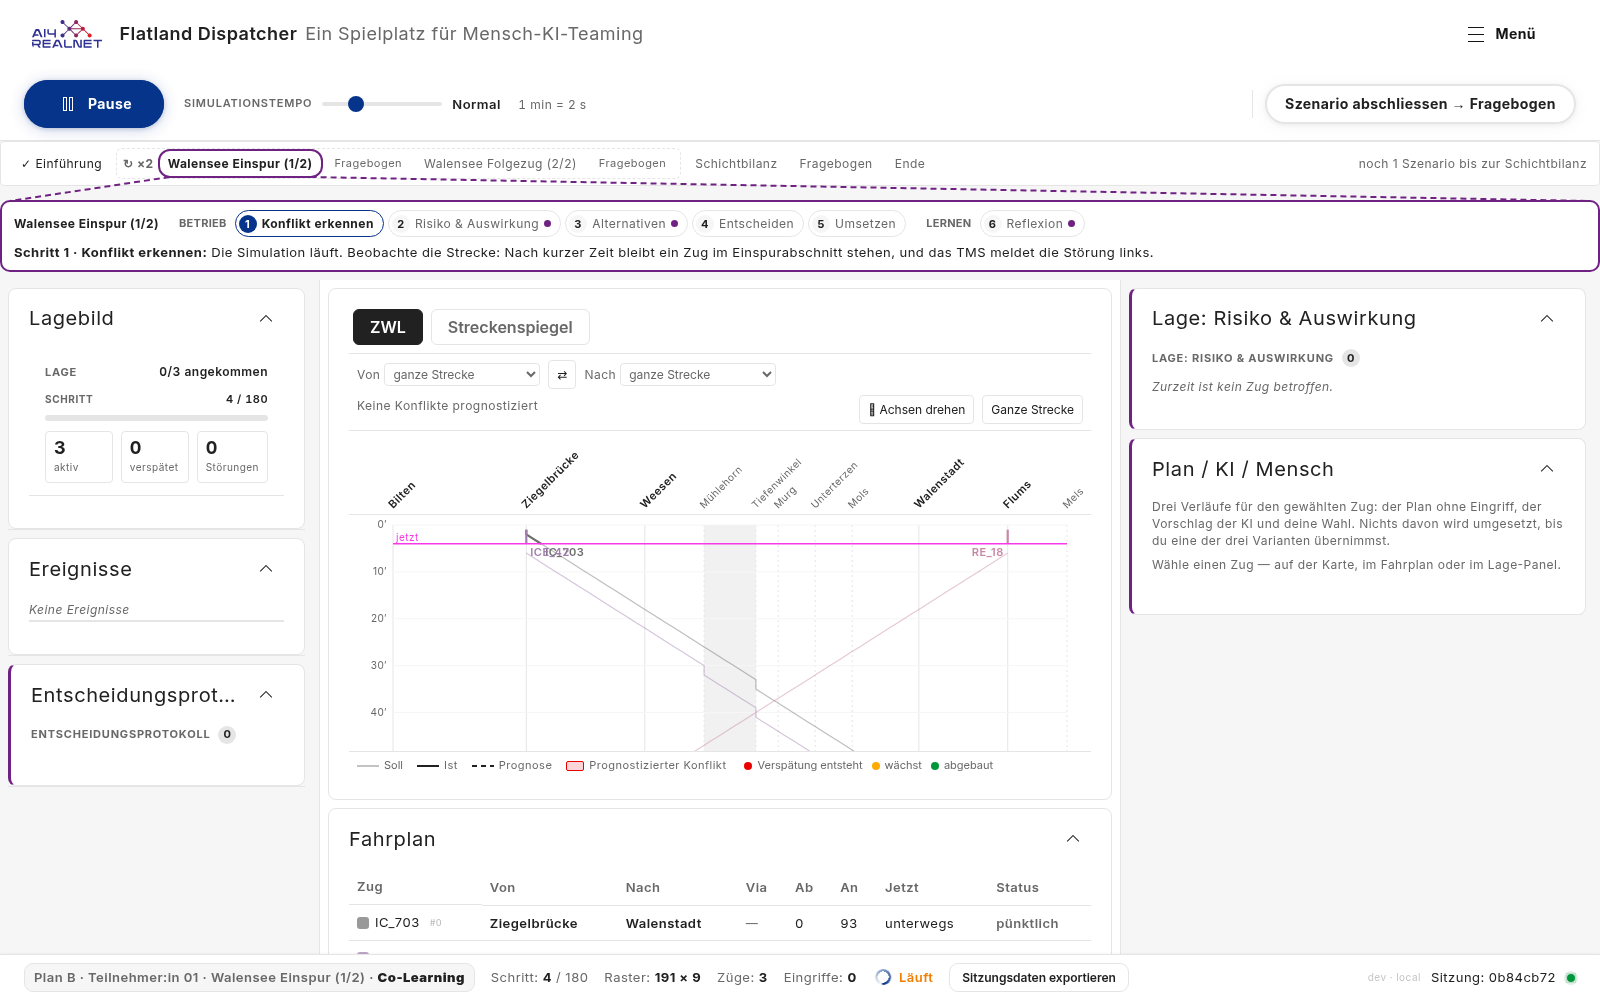
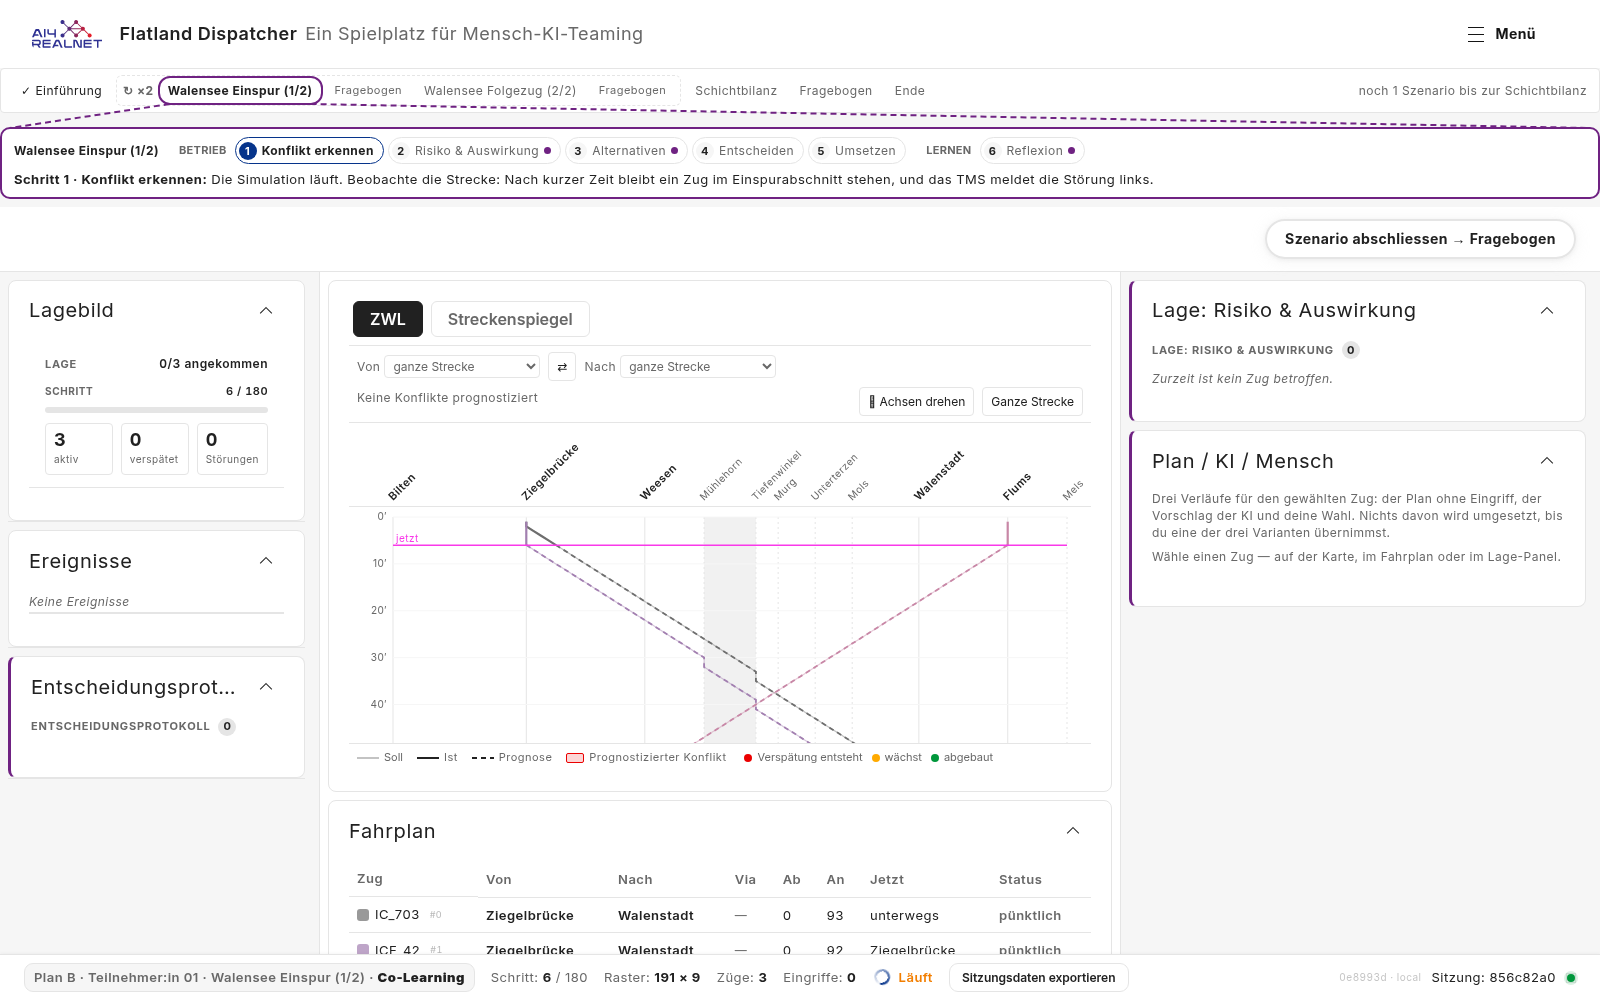
docs(plans): retake the #168 screenshots on main with #167, after the rebase.
Records the new commit IDs and base of the rebase onto c78080bb, and the
checks run on the rebased branch.

diff --git a/docs/plans/zwl-default.md b/docs/plans/zwl-default.md
@@ -1,7 +1,8 @@
 # Plan B centre panel: ZWL first and by default, tabs instead of the title (#168)
 
 > **Status:** plan, 2026-11-03; built 2026-11-04 (S1-S4), with
-> before/after screenshots (§6). Based on `main` 0ec3516.
+> before/after screenshots (§6). Based on `main` 0ec3516; rebased
+> 2026-11-05 onto `main` c78080bb, which adds #167 (merged in #169).
 > All questions are decided (§8).
 > Issue [#168](https://github.com/flatland-association/flatland-ui-hub/issues/168)
 > ("ZWL als default Bildschirm", @CleverManu, label `plan b`), with the
@@ -20,11 +21,11 @@
 
 | ID | Commit message | SHA |
 |---|---|---|
-| S0 | docs(plans): plan for #168, the ZWL as the Plan B default view. | c8ae6c8 |
-| S1 | feat(view-tabs): let a layout name the tab a panel opens on, and its tab size. | 4564bc2 |
-| S2 | feat(ui-config): hide the centre panel's title under Plan B, the tabs take its place. | 95ba050 |
-| S3 | feat(layout): open the Plan B centre panel on the ZWL, left of the Streckenspiegel. | a786690 |
-| S4 | docs(plans): screenshots of the Plan B centre panel for #168. | this commit |
+| S0 | docs(plans): plan for #168, the ZWL as the Plan B default view. | 855477c |
+| S1 | feat(view-tabs): let a layout name the tab a panel opens on, and its tab size. | 53b448c |
+| S2 | feat(ui-config): hide the centre panel's title under Plan B, the tabs take its place. | d9f4896 |
+| S3 | feat(layout): open the Plan B centre panel on the ZWL, left of the Streckenspiegel. | 36c2090 |
+| S4 | docs(plans): screenshots of the Plan B centre panel for #168. | 0e8993d |
 
 ### Terms
 
@@ -249,8 +250,7 @@ Decided 2026-11-03 (Q1-Q4).
 **Results (2026-11-04).** `i18n:check`, `lint:styles` and the production
 build pass, as do the new and changed specs. Screenshots by `scripts/docshots-zwl-default.mjs` on
 `plan-b-p01`, leg 1, with the Plan B deployment config: "before" on a `main`
-build (0ec3516), "after" on this branch. `main` still has the toolbar with
-Play/Pause and the step buttons; #167 removes them.
+build (c78080bb, retaken after the rebase), "after" on this branch (0e8993d).
 
 | | Before (`main`) | After (this branch) |
 |---|---|---|
@@ -279,6 +279,14 @@ After a click on the panel's top edge, where the header is or was:
 
 The full frontend suite passes (615 of 616, 1 skipped). Not yet run: leg 2,
 the non-Plan B tour and `pytest -q` (no backend change).
+
+**After the rebase onto c78080bb (2026-11-05).** The five commits applied
+unchanged, without conflicts. In the files this plan changes, #167 only adds
+its own id, `control.playback` (id list, schema, `PLAN_B_UI.hidden`,
+`configurable-ui-plan.md`). `i18n:check`, `lint:styles`, the production build and the
+full frontend suite pass (631 of 632, 1 skipped). The screenshots above were
+retaken on both sides, so they show #167's toolbar under the guide strip; the
+centre panel and the printed tab state are as before the rebase.
 
 ## 7. Steps
 
